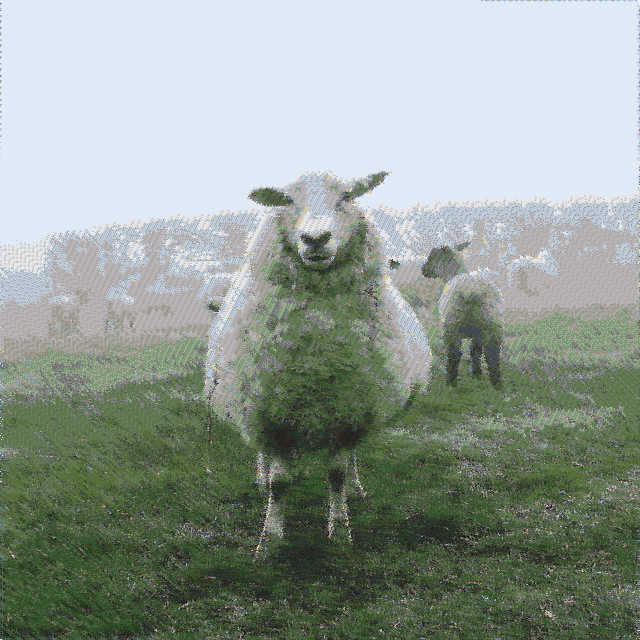
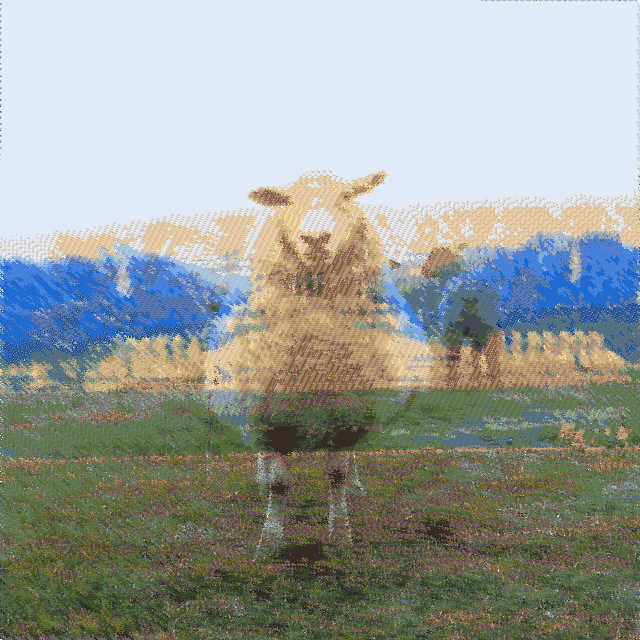
0076 - node --harmony /index.js

diff --git a/sketches/0076/index.js b/sketches/0076/index.js
@@ -133,8 +133,8 @@ co(function*(){
 	}
 
 	var imgRed = yield getBasePixels(getPath(others[0]));
-	var imgGreen = yield getBasePixels(getPath(others[0]));
-	var imgBlue = yield getBasePixels(getPath(others[0]));
+	var imgGreen = yield getBasePixels(getPath(others[2]));
+	var imgBlue = yield getBasePixels(getPath(others[1]));
 	var newImg = yield getBasePixels(getPath(others[0]));
 
 	for(var x = 0; x<640; x++){
